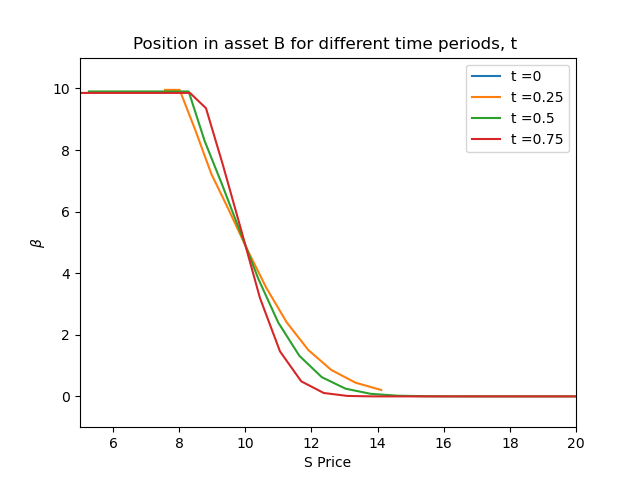
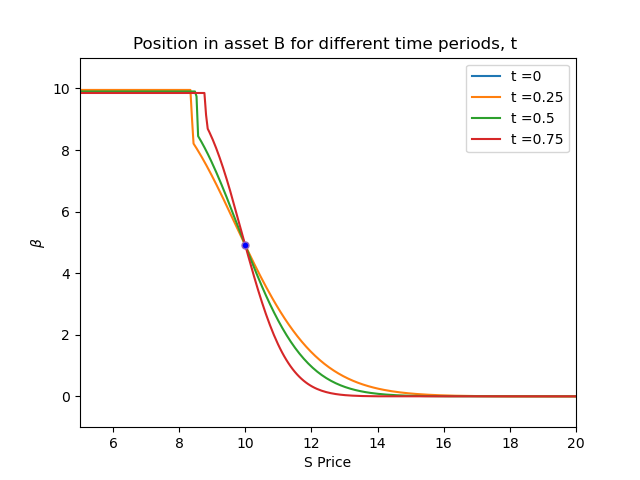
Adding time 0 dot

diff --git a/Hedging_Function_American.py b/Hedging_Function_American.py
@@ -66,7 +66,7 @@ def Hedge_Position  (TimeToExpiry, InitialPrice, mu, sigma, RiskfreeRate, TotalS
         #print(priceTree[:,int(i)])
         plt.plot(priceTree[:,int(i)], hedge_position[:,int(i)], label = f't ={hedgetimes[hedgetimes2.index(i)]}')
 
-    plt.plot(priceTree[0,0], hedge_position[0,0], marker="o", markersize=10, markeredgecolor="red", markerfacecolor="blue")
+    plt.plot(priceTree[0,0], hedge_position[0,0], marker="o", markersize=5, markerfacecolor="blue")
     plt.xlabel('Stock Price')
     plt.ylabel(r'$\alpha$')
     plt.xlim(5, 20)
@@ -85,17 +85,17 @@ def Hedge_Position  (TimeToExpiry, InitialPrice, mu, sigma, RiskfreeRate, TotalS
     B_price =  np.full_like(priceTree, np.nan)
     hedge_position_B = np.full_like(priceTree, np.nan)
     B_price[0, 0] = 1
+    hedge_position_B[0, 0] = (optionTree[0,0]- hedge_position[0,0]*priceTree[0,0])/B_price[0,0]
 
     for i in range(1, TotalSteps):
         B_price[0:i, i] = np.exp(RiskfreeRate*i*dt)
         hedge_position_B[0:i, i] = (optionTree[0:i, i]- hedge_position[0:i,i]*priceTree[0:i,i])/B_price[0:i,i]
-        #print("\n", hedge_position_B)
+
         
     for i in hedgetimes2:
-        #print(priceTree[:,int(i)])
         plt.plot(priceTree[:, int(i)], hedge_position_B[:,int(i)], label = f't ={hedgetimes[hedgetimes2.index(i)]}')
 
-    plt.plot(priceTree[0,0], hedge_position_B[0,0], marker="o", markersize=10, markeredgecolor="red", markerfacecolor="blue")
+    plt.plot(priceTree[0,0], hedge_position_B[0,0], marker="o", markersize=5, markerfacecolor="blue")
     plt.xlabel('S Price')
     plt.ylabel(r'$\beta$')
     plt.xlim(5, 20)
@@ -105,5 +105,5 @@ def Hedge_Position  (TimeToExpiry, InitialPrice, mu, sigma, RiskfreeRate, TotalS
     plt.savefig('Hedging_Strategy_Rf_Am.png')
 
 if __name__ == "__main__":
-        Hedge_Position(1, 10, 0.05, 0.2, 0.02, 50, 10)
+        Hedge_Position(1, 10, 0.05, 0.2, 0.02, 5000, 10)
         
